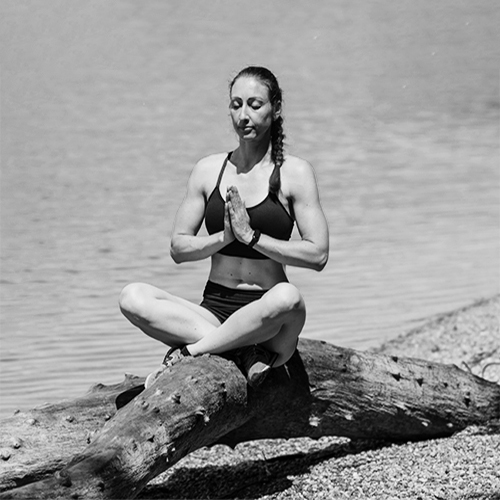
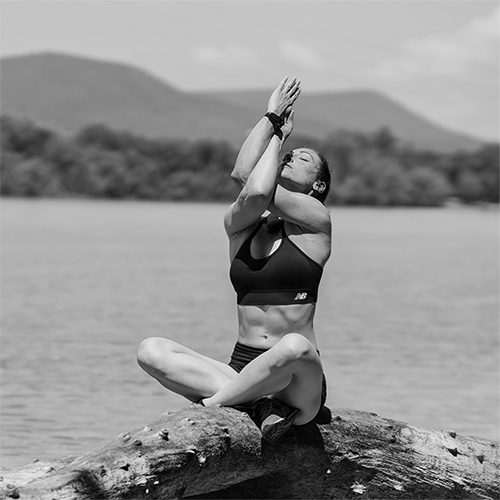
img

diff --git a/style.css b/style.css
@@ -231,6 +231,7 @@ p {
   padding: 20px;
   text-align: center;
 }
+
 .black {
   background-color: black;
   color: white;
@@ -324,8 +325,8 @@ p {
   padding-left: 25%;
 }
 .yp2 {
-  width: 100%;
-  margin-top: -25%;
+  /* width: 100%; */
+  margin-top: -20%;
   padding-right: 25%;
   margin-right: 25%;
 }

diff --git a/home.html b/home.html
@@ -201,10 +201,10 @@
       <div class="yb-wrapper">
         <div class="ybimg-wrapper">
           <div class="yp1">
-            <img class="yp" src="./pic/yogapose2.jpg" alt="yoga pose" />
+            <img class="yp" src="./pic/y2.jpg" alt="yoga pose" />
           </div>
           <div class="yp2">
-            <img class="yp" src="./pic/yogapose3.jpg" alt="yoga pose" />
+            <img class="yp" src="./pic/y1.jpg" alt="yoga pose" />
           </div>
         </div>
 